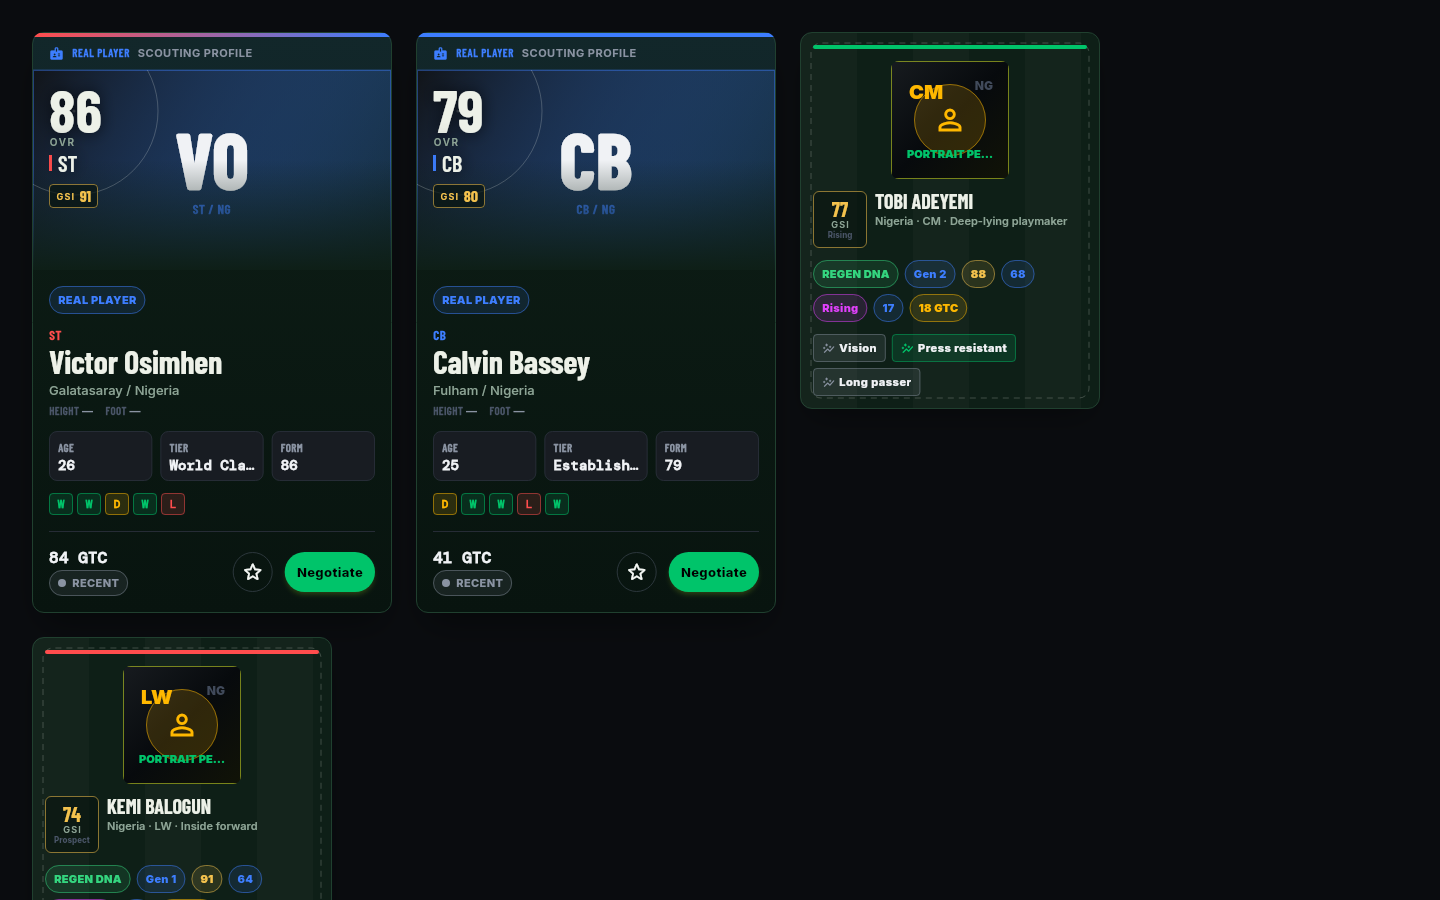
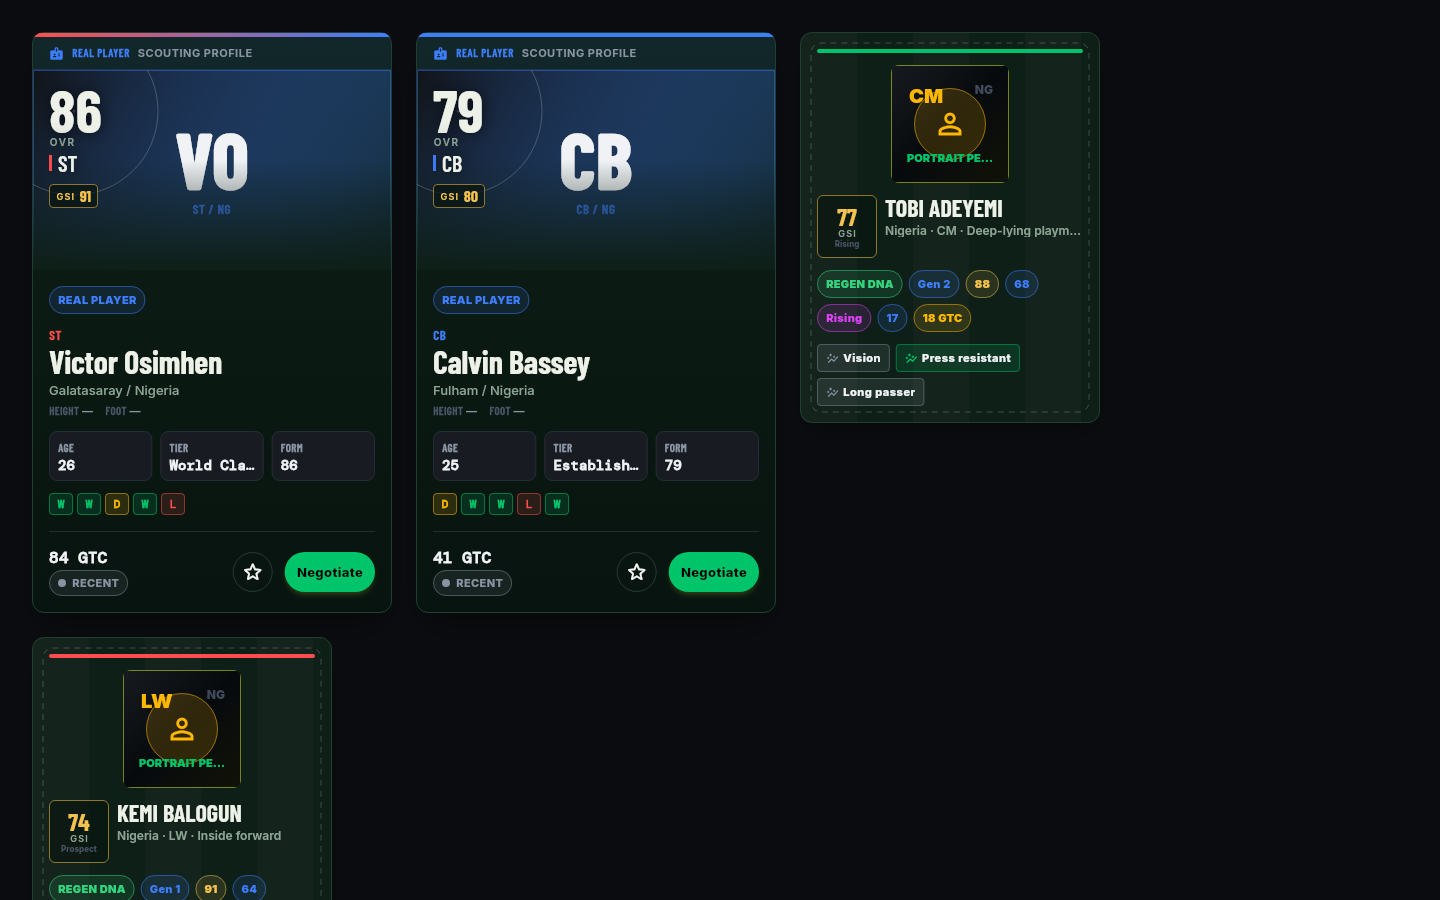
Restore full Floodlit sizing on regen card and enlarge prospect grid cells

Changed region(s): [[0.5625, 0.0933, 0.75, 0.4978], [0.0312, 0.7156, 0.2188, 1.0], [0.5625, 0.0311, 0.75, 0.0622]]

diff --git a/frontend/lib/ui_gtex/football/gtex_regen_card.dart b/frontend/lib/ui_gtex/football/gtex_regen_card.dart
@@ -71,7 +71,7 @@ class GtexRegenCard extends StatelessWidget {
         child: AnimatedContainer(
           duration: const Duration(milliseconds: 180),
           clipBehavior: Clip.antiAlias,
-          padding: const EdgeInsets.all(GtexSpacing.sm),
+          padding: const EdgeInsets.all(GtexSpacing.md),
           decoration: BoxDecoration(
             color: GtexFloodlit.card,
             borderRadius: BorderRadius.circular(GtexSpacing.radiusLg),
@@ -98,10 +98,10 @@ class GtexRegenCard extends StatelessWidget {
             clipBehavior: Clip.none,
             children: <Widget>[
               const Positioned(
-                left: -GtexSpacing.sm,
-                top: -GtexSpacing.sm,
-                right: -GtexSpacing.sm,
-                bottom: -GtexSpacing.sm,
+                left: -GtexSpacing.md,
+                top: -GtexSpacing.md,
+                right: -GtexSpacing.md,
+                bottom: -GtexSpacing.md,
                 child: IgnorePointer(
                   child: CustomPaint(
                     painter: GtexTurfStripesPainter(),
@@ -296,12 +296,12 @@ class _RegenCardDetails extends StatelessWidget {
                     style: const TextStyle(
                       color: GtexFloodlit.chalk,
                       fontFamily: GtexFloodlit.display,
-                      fontSize: 20,
+                      fontSize: 24,
                       fontWeight: FontWeight.w700,
                       height: 1,
                     ),
                   ),
-                  const SizedBox(height: 3),
+                  const SizedBox(height: 4),
                   Text(
                     '$nationality · $position · $archetype',
                     maxLines: 1,
@@ -309,7 +309,7 @@ class _RegenCardDetails extends StatelessWidget {
                     style: const TextStyle(
                       color: GtexFloodlit.chalkMuted,
                       fontFamily: 'Inter',
-                      fontSize: 11,
+                      fontSize: 12,
                       fontWeight: FontWeight.w600,
                       height: 1.2,
                     ),
@@ -457,13 +457,15 @@ class _TraitChip extends StatelessWidget {
           children: <Widget>[
             Icon(Icons.auto_graph_rounded, size: 13, color: color),
             const SizedBox(width: 4),
-            Text(
-              label,
-              maxLines: 1,
-              overflow: TextOverflow.ellipsis,
-              style: Theme.of(context).textTheme.labelSmall?.copyWith(
-                color: GtexColors.textPrimary,
-                fontWeight: FontWeight.w800,
+            Flexible(
+              child: Text(
+                label,
+                maxLines: 1,
+                overflow: TextOverflow.ellipsis,
+                style: Theme.of(context).textTheme.labelSmall?.copyWith(
+                  color: GtexColors.textPrimary,
+                  fontWeight: FontWeight.w800,
+                ),
               ),
             ),
           ],
@@ -565,8 +567,8 @@ class _GsiPlate extends StatelessWidget {
     final String value =
         label.replaceFirst(RegExp(r'^GSI\s*', caseSensitive: false), '').trim();
     return Container(
-      width: 54,
-      padding: const EdgeInsets.symmetric(vertical: 7),
+      width: 60,
+      padding: const EdgeInsets.symmetric(vertical: 8),
       decoration: BoxDecoration(
         color: GtexFloodlit.night.withValues(alpha: 0.6),
         borderRadius: BorderRadius.circular(6),
@@ -581,7 +583,7 @@ class _GsiPlate extends StatelessWidget {
             style: const TextStyle(
               color: GtexFloodlit.gold,
               fontFamily: GtexFloodlit.display,
-              fontSize: 20,
+              fontSize: 24,
               fontWeight: FontWeight.w700,
               height: 1,
             ),

diff --git a/frontend/lib/features/regen_redesign/presentation/gtex_regen_world_screen_v2.dart b/frontend/lib/features/regen_redesign/presentation/gtex_regen_world_screen_v2.dart
@@ -599,8 +599,9 @@ class _ProspectsBoard extends StatelessWidget {
             columns;
         // Raised from 480/400 when the card gained its lineage line and trait
         // chips: the cell is a fixed box, so new content has to be paid for
-        // here rather than clipped there.
-        final double cellHeight = cardWidth < 320 ? 504 : 432;
+        // here rather than clipped there. Raised again by 40 for the Floodlit
+        // card's roomier padding and larger display type.
+        final double cellHeight = cardWidth < 320 ? 544 : 472;
         // Section nav already labels this lane "Prospects"; skip a duplicate
         // board heading so the surface shows that label once.
         return Column(
